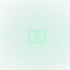
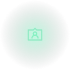
fix

diff --git a/assets/css/style.css b/assets/css/style.css
@@ -1005,7 +1005,7 @@ footer a {
 }
 
 .crypto::before {
-  content: url('../image/c_1.png');
+  content: url('../image/crypoto.png');
   position: absolute;
   border-radius: 50%;
   top: 0px;
